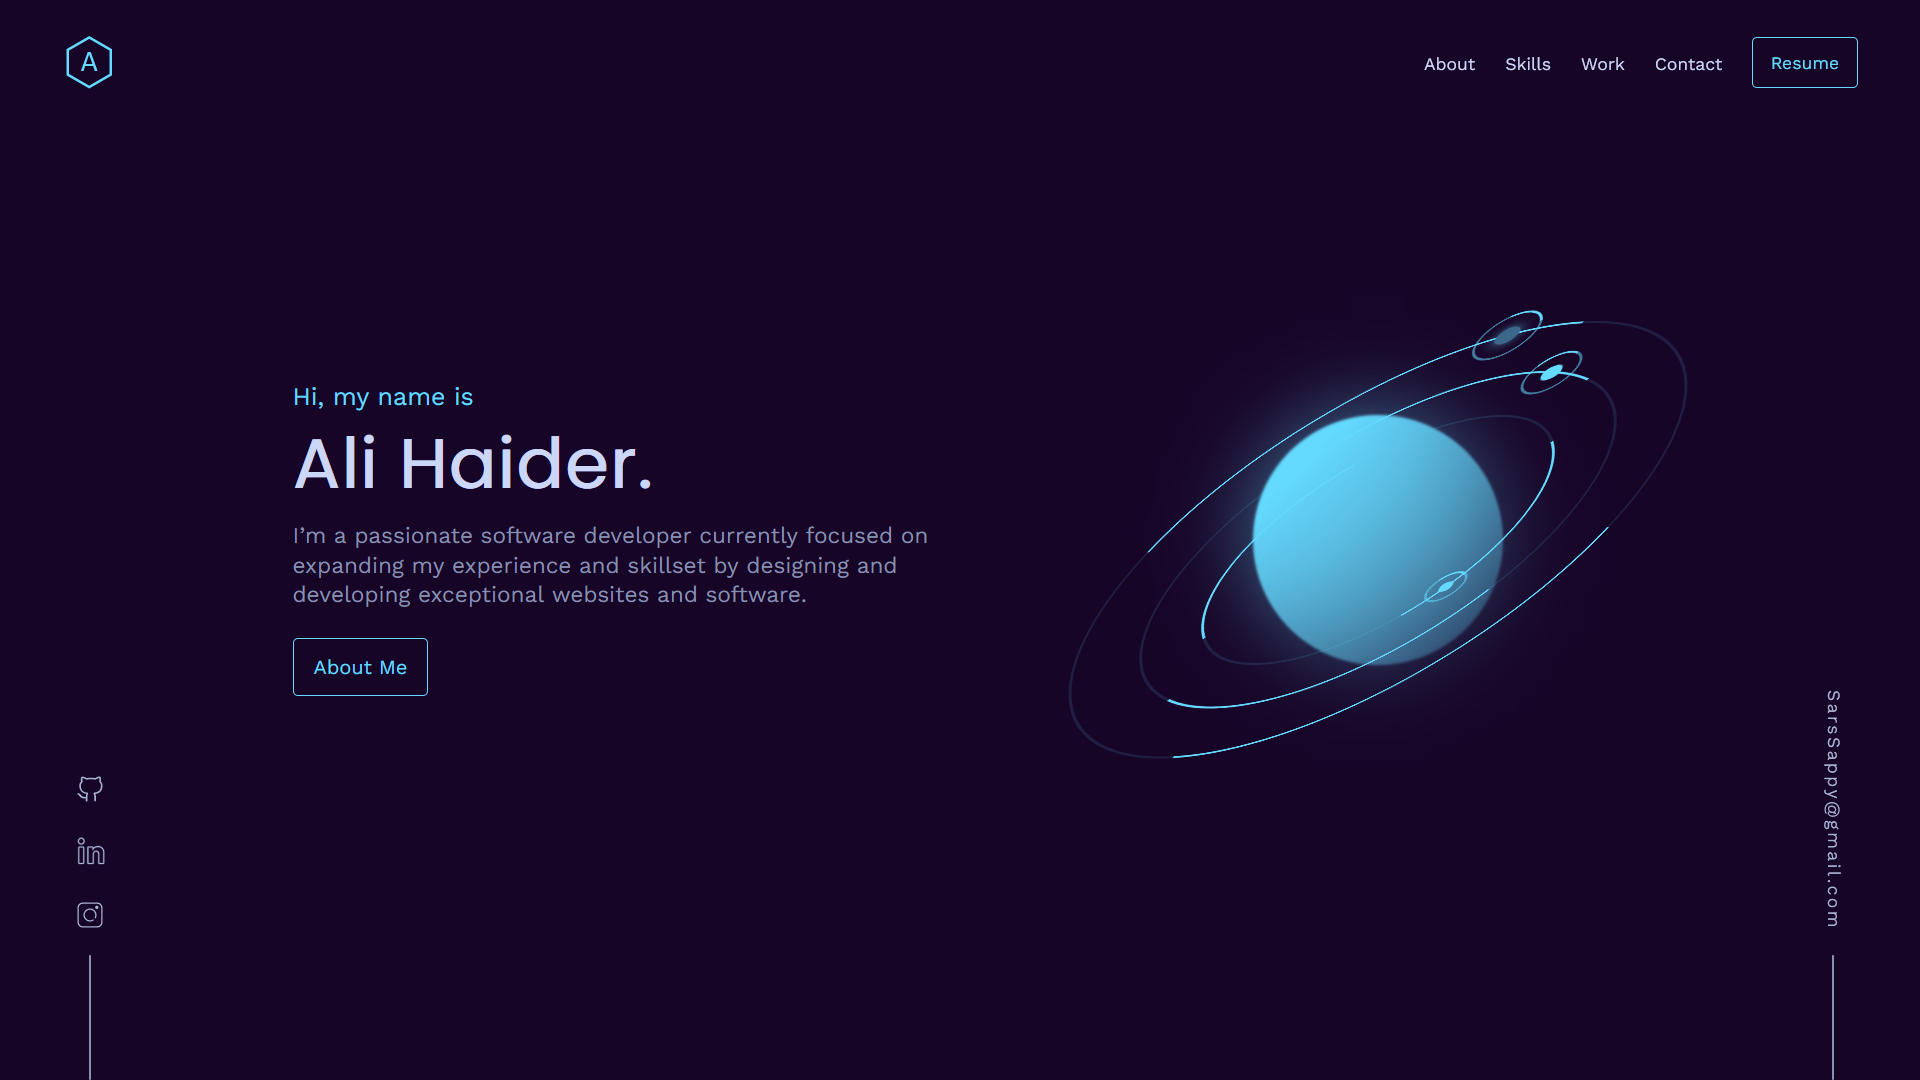
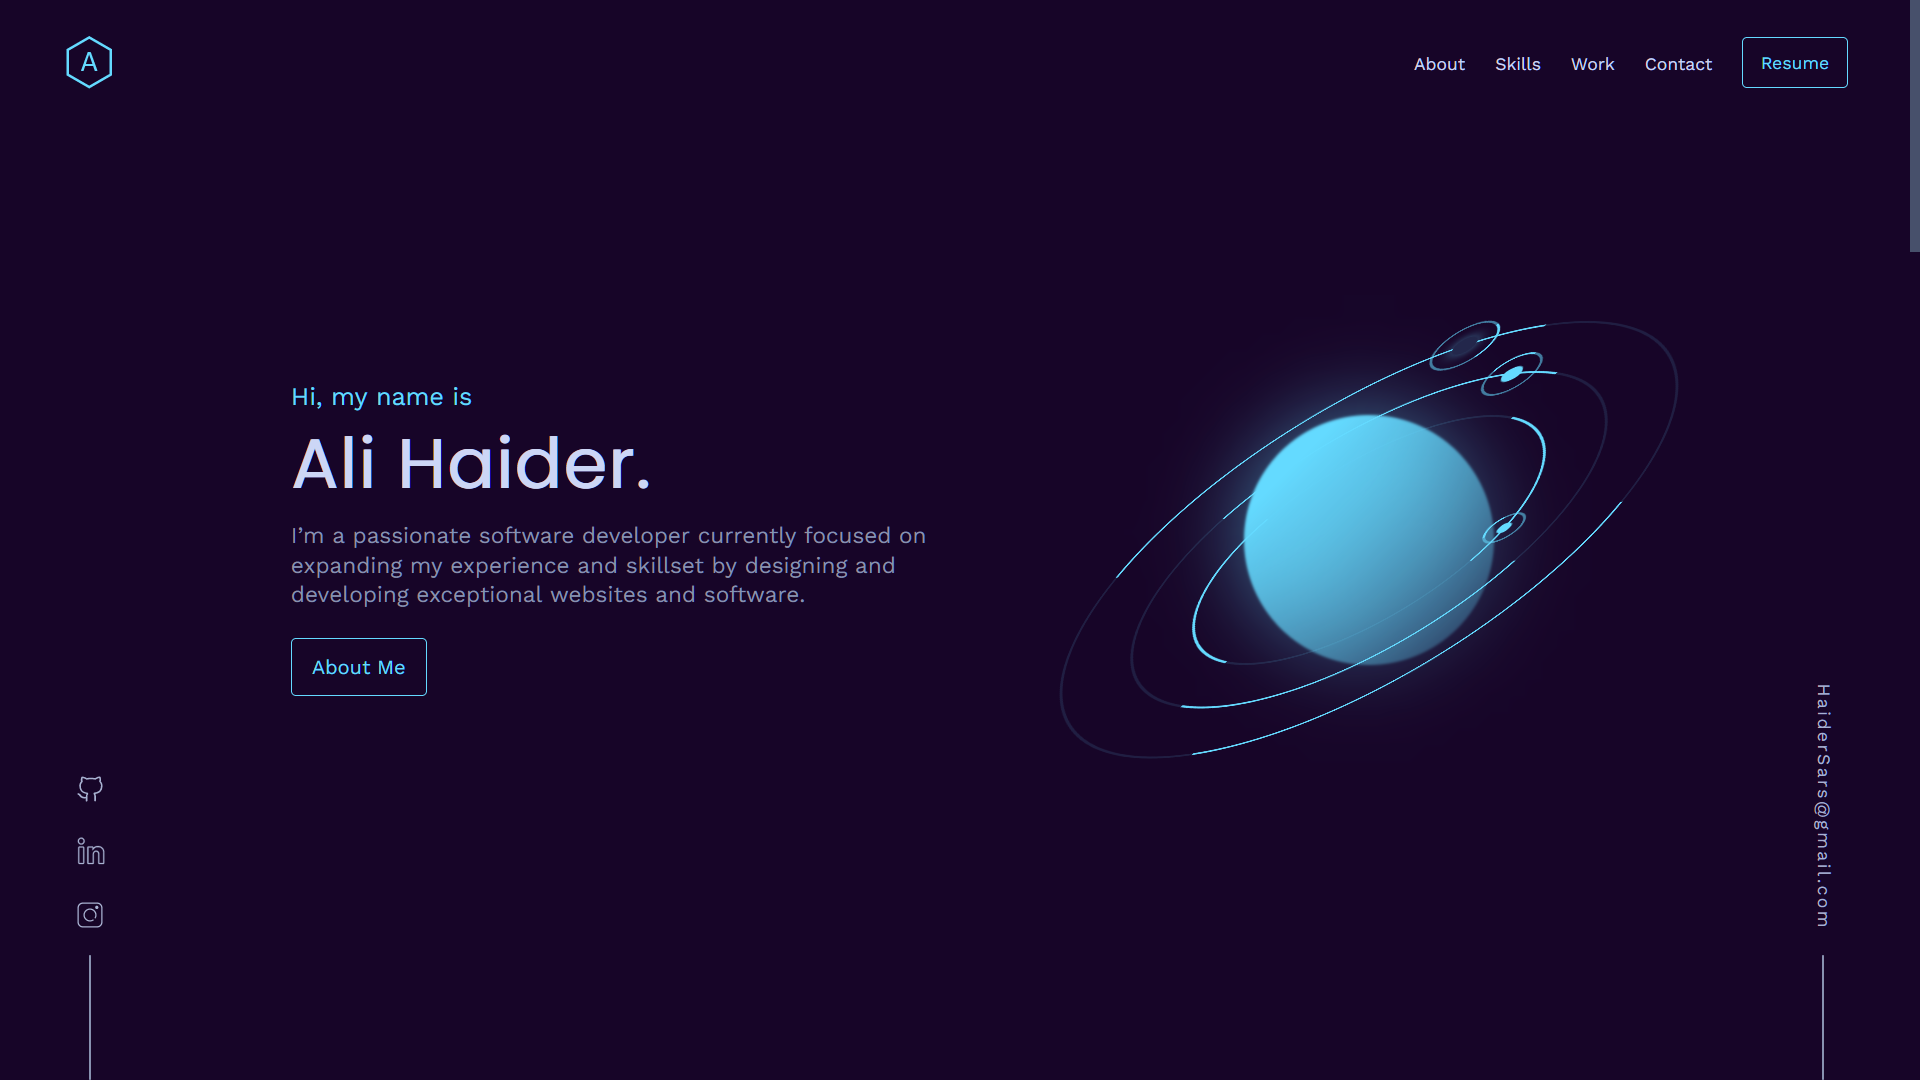
chore: JavaScript cleanup

diff --git a/index.html b/index.html
@@ -82,16 +82,10 @@
                             <svg class="icons" xmlns="http://www.w3.org/2000/svg" viewBox="-2 -1 24 24"><path fill="currentColor" stroke="currentColor" stroke-width=".2" d="M3.006 5.813H3c-.475 0-.982-.195-1.329-.547l-.003-.003c-.376-.351-.568-.865-.568-1.384 0-.517.19-1 .571-1.388.347-.352.82-.546 1.362-.546.474 0 .948.192 1.296.546.381.388.571.871.571 1.388 0 .519-.192 1.033-.568 1.384l-.003.003c-.35.357-.824.578-1.323.547ZM16.13 12.88l.003.003c.303.278.435.718.435 1.316v7.289c0 .201.098.395.237.536.139.141.33.242.53.242h3.333c.2 0 .39-.1.53-.242a.785.785 0 0 0 .236-.536v-8.746c0-2.764-2.075-4.914-4.766-4.914h-.7c-1.238 0-2.416.51-3.234 1.338v-.22a.785.785 0 0 0-.237-.537.764.764 0 0 0-.53-.242H8.634a.8.8 0 0 0-.512.208.72.72 0 0 0-.254.536v12.644c0 .223.11.402.257.523.146.12.335.188.51.188H12.3a.827.827 0 0 0 .51-.188.671.671 0 0 0 .257-.523v-7.322c0-1.072.763-1.9 1.733-1.9.508 0 .982.194 1.329.547Zm-3.896 1.353v7.155H8.767V9.046H11.9v2.314l.171-.174.934-.95.005-.005.005-.007c.647-.922 1.783-1.517 2.985-1.517h.7c2.174 0 3.867 1.782 3.867 4.036v8.646h-3.1l-.034-7.188c0-.83-.204-1.47-.662-1.935a2.7 2.7 0 0 0-1.938-.81h-.002c-1.458.036-2.598 1.236-2.598 2.778Zm-9.2-13.167a2.72 2.72 0 0 0-1.971.81 2.818 2.818 0 0 0-.829 2.002c0 .773.312 1.476.829 2.002.516.525 1.242.844 1.94.81h.065c.695 0 1.353-.284 1.871-.81a2.84 2.84 0 0 0 .829-2c.034-.742-.28-1.445-.795-1.97a2.603 2.603 0 0 0-1.939-.844Zm1.3 7.101h-2.7c-.592 0-1.066.49-1.066 1.117V21.15c0 .596.51 1.117 1.1 1.117h2.666c.588 0 1.1-.52 1.1-1.083V9.285c0-.596-.51-1.117-1.1-1.117Zm.234 13.016a.19.19 0 0 1-.07.14.253.253 0 0 1-.164.065H1.667a.233.233 0 0 1-.158-.076.244.244 0 0 1-.076-.163V9.285c0-.06.024-.121.064-.168a.182.182 0 0 1 .136-.07h2.7c.05 0 .11.026.158.075.049.05.076.11.076.163v11.899Z"/></svg>
                         </a>
                     </li>
-
-                    <li>
-                        <a class="social-items" href="https://www.instagram.com/manor_sailor/" target="_blank" rel="noopener noreferrer">
-                            <svg class="icons" xmlns="http://www.w3.org/2000/svg" viewBox="-2 -2 24 24"><path fill="currentColor" d="M15.246 9.7a5.268 5.268 0 0 0-5.004-4.949 5.26 5.26 0 0 0-5.49 5.494 5.268 5.268 0 0 0 4.951 5.001 5.224 5.224 0 0 0 3.07-.786.504.504 0 0 0 .09-.783l-.007-.008a.506.506 0 0 0-.627-.067c-.66.41-1.44.644-2.274.635-2.356-.025-4.257-2.003-4.19-4.358a4.242 4.242 0 0 1 4.506-4.108 4.248 4.248 0 0 1 3.951 3.873 4.216 4.216 0 0 1-.478 2.337.506.506 0 0 0 .085.597l.008.008a.502.502 0 0 0 .797-.114c.44-.82.668-1.768.612-2.773ZM16.78 3.898a1.356 1.356 0 1 1-2.712 0 1.356 1.356 0 0 1 2.712 0Z"/><path fill="currentColor" fill-rule="evenodd" d="M15.777 0H4.223A4.228 4.228 0 0 0 0 4.223v11.554A4.228 4.228 0 0 0 4.223 20h11.554A4.228 4.228 0 0 0 20 15.777V4.223A4.228 4.228 0 0 0 15.777 0Zm3.206 15.777a3.21 3.21 0 0 1-3.206 3.206H4.223a3.21 3.21 0 0 1-3.206-3.206V4.223a3.21 3.21 0 0 1 3.206-3.206h11.554a3.21 3.21 0 0 1 3.206 3.206v11.554Z" clip-rule="evenodd"/></svg>
-                        </a>
-                    </li>
                 </ul>
 
                 <div class="mail-box flex">
-                    <a href="mailto:SarsSappy@gmail.com" target="_blank" rel="noopener noreferrer">SarsSappy@gmail.com</a>
+                    <a href="mailto:HaiderSars@gmail.com" target="_blank" rel="noopener noreferrer">HaiderSars@gmail.com</a>
                 </div>
             </div>
 
@@ -305,7 +299,7 @@
 
                 <div class="contact-main flex">
                     <p>I'm currently available for new opportunities. Whether you have any queries or just want to talk, feel free to text me & I will try my best to get back to you!</p>
-                    <a class="btn" href="mailto:SarsSappy@gmail.com" target="_blank" rel="noopener noreferrer">Say Hello</a>
+                    <a class="btn" href="mailto:HaiderSars@gmail.com" target="_blank" rel="noopener noreferrer">Say Hello</a>
                 </div>
             </section>
         </main>

diff --git a/js/app.js b/js/app.js
@@ -69,9 +69,7 @@ window.addEventListener('scroll', () => {
 
 // Hide the navigation menu if the user touches any area outside of nav-menu i.e, the blurred content
 ['click', 'touchmove'].forEach(eve => {
-    content.addEventListener(eve, () => {
-        hideNav();
-    });
+    content.addEventListener(eve, hideNav);
 });
 
 // Add functionality to the hamburger for hiding & unhiding the navigation

diff --git a/README.md b/README.md
@@ -2,7 +2,7 @@
     <a href="https://manorsailor.github.io/" target="_blank">manorsailor.github.io - v1</a>
 </h1>
 
-![demo](https://raw.githubusercontent.com/ManorSailor/manorsailor.github.io/dev/img/demo.png)
+![demo](https://raw.githubusercontent.com/ManorSailor/manorsailor.github.io/main/img/demo.png)
 <p align="center">First version of my portfolio website built from scratch in pure HTML, CSS, & JS, hosted on <a href="https://docs.github.com/en/pages/getting-started-with-github-pages/about-github-pages" target="_blank">Github pages</a></p>
 
 ## Table of Contents
